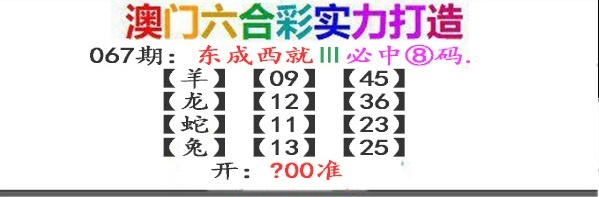
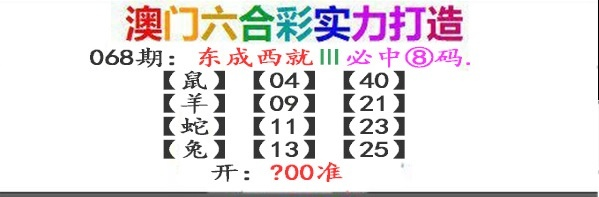
Update:  2023.03.09 14:26:23

diff --git a/Script/Js/lczjx.js b/Script/Js/lczjx.js
@@ -21,14 +21,14 @@ document.writeln("<tr>");
 document.writeln("<td style=box-sizing:border-box bgcolor=#ffffff height=40 bordercolor=\'#C0C0C0\'>");
 document.writeln("<p style=box-sizing:border-box;padding:0;margin:0 align=left>");
 document.writeln("<font face=\'微软雅黑\'><b><span style=\'box-sizing:border-box; \'><font color=\'#000000\'>");
-document.writeln("067期澳门马会传真四字：</font><font size=\'5\' color=\'#008000\'>【吹吹拍拍】</font></span><span style=\'box-sizing:border-box; font-size:14pt\'><font color=\'#FF0000\'><br></font>");
+document.writeln("068期澳门马会传真四字：</font><font size=\'5\' color=\'#008000\'>【凹凸不平】</font></span><span style=\'box-sizing:border-box; font-size:14pt\'><font color=\'#FF0000\'><br></font>");
 document.writeln("</span>");
 document.writeln("<span style=\'box-sizing:border-box; \'><font color=\'#FF0000\'>");
-document.writeln("四字妙解：吹吹拍拍.重叠字解双数狗猴鼠虎龙马</font></span><span style=\'box-sizing:border-box; font-size:14pt\'><br><br>");
+document.writeln("四字妙解：形容平面上有凸出和凹进的地方，形容平面上有凸出和凹进的地方。解地肖蛇虎羊鸡狗鼠</font></span><span style=\'box-sizing:border-box; font-size:14pt\'><br><br>");
 document.writeln("</span>");
 document.writeln("<span style=\'box-sizing:border-box; \'>");
-document.writeln("<font color=\'#008000\'>综合取肖：狗猴鼠虎龙马<br>");
-document.writeln("综合取码：06.18.08.20.04.16.02.14.12.24.10.22</font></span></b></font></tr>");
+document.writeln("<font color=\'#008000\'>综合取肖：蛇虎羊鸡狗鼠<br>");
+document.writeln("综合取码：35.47.26.38.31.43.30.42.28.40.33.45</font></span></b></font></tr>");
 document.writeln("<tr>");
 document.writeln("<td style=box-sizing:border-box bgcolor=#FFFF00 height=40>");
 document.writeln("<p style=box-sizing:border-box;padding:0;margin:0 align=center>");
@@ -38,6 +38,31 @@ document.writeln("<img src=\'https://67292c.com/images/yyy123.gif\' style=\'widt
 document.writeln("</span></font></font>");
 document.writeln("</tr>");
 document.writeln("<!--网址结束-->");
+document.writeln("");
+document.writeln("");
+document.writeln("<!--网址开始-->");
+document.writeln("<tr>");
+document.writeln("<td style=box-sizing:border-box bgcolor=#ffffff height=40 bordercolor=\'#C0C0C0\'>");
+document.writeln("<p style=box-sizing:border-box;padding:0;margin:0 align=left>");
+document.writeln("<font face=\'微软雅黑\'><b><span style=\'box-sizing:border-box; \'><font color=\'#000000\'>");
+document.writeln("067期澳门马会传真四字：</font><font size=\'5\' color=\'#008000\'>【吹吹拍拍】</font></span><span style=\'box-sizing:border-box; font-size:14pt\'><font color=\'#FF0000\'><br></font>");
+document.writeln("</span>");
+document.writeln("<span style=\'box-sizing:border-box; \'><font color=\'#FF0000\'>");
+document.writeln("四字妙解：吹吹拍拍.重叠字解双数狗猴鼠虎龙马</font></span><span style=\'box-sizing:border-box; font-size:14pt\'><br><br>");
+document.writeln("</span>");
+document.writeln("<span style=\'box-sizing:border-box; \'>");
+document.writeln("<font color=\'#008000\'>综合取肖：狗<span style=\'background-color: #FF0000\'>猴</span>鼠虎龙马<br>");
+document.writeln("综合取码：06.18.<span style=\'background-color: #FF0000\'>08</span>.20.04.16.02.14.12.24.10.22</font></span></b></font></tr>");
+document.writeln("<tr>");
+document.writeln("<td style=box-sizing:border-box bgcolor=#FFFF00 height=40>");
+document.writeln("<p style=box-sizing:border-box;padding:0;margin:0 align=center>");
+document.writeln("<font face=\'微软雅黑\'>");
+document.writeln("<b><span style=box-sizing:border-box;font-size:14pt>");
+document.writeln("<img src=\'https://67292c.com/images/yyy123.gif\' style=\'width:20px\' height=\'19\'><span style=box-sizing:border-box;><font color=\'#000000\'>澳门马会传真<font color=\'#FF0000\'>67292.com</font></font></span></span></b><span style=box-sizing:border-box;font-size:14pt><font color=\'#000000\'><span style=\'font-size: 14pt\'></strong>");
+document.writeln("</span></font></font>");
+document.writeln("</tr>");
+document.writeln("<!--网址结束-->");
+document.writeln("");
 document.writeln("");
 document.writeln("");
 document.writeln("");
@@ -128,14 +153,14 @@ document.writeln("<tr>");
 document.writeln("<td style=box-sizing:border-box bgcolor=#ffffff height=40 bordercolor=\'#C0C0C0\'>");
 document.writeln("<p style=box-sizing:border-box;padding:0;margin:0 align=left>");
 document.writeln("<font face=\'微软雅黑\'><b><span style=\'box-sizing:border-box; \'><font color=\'#000000\'>");
-document.writeln("067跑狗一语中特：</font><font size=\'5\' color=\'#FF0000\'>【一步三摇】</font></span><span style=\'box-sizing:border-box; font-size:14pt\'><font color=\'#FF0000\'><br></font>");
+document.writeln("068跑狗一语中特：</font><font size=\'5\' color=\'#FF0000\'>【倔头倔脑】</font></span><span style=\'box-sizing:border-box; font-size:14pt\'><font color=\'#FF0000\'><br></font>");
 document.writeln("</span>");
 document.writeln("<font color=\'#0000FF\'>");
 document.writeln("<span style=\'box-sizing:border-box; \'>");
-document.writeln("解释：  指人走路摇晃或者悠闲自得的样子。解小肖鼠猴鸡兔龙蛇<br></span><span style=\'box-sizing:border-box; \'>");
+document.writeln("解释：  形容说话、行动生硬的样子解后肖马羊猴鸡狗猪<br></span><span style=\'box-sizing:border-box; \'>");
 document.writeln("");
 document.writeln("<br>");
-document.writeln("<font color=\'#FF00FF\' size=\'4\'>特肖：鼠猴鸡兔龙蛇</font></span></font></b></tr>");
+document.writeln("<font color=\'#FF00FF\' size=\'4\'>特肖：马羊猴鸡狗猪</font></span></font></b></tr>");
 document.writeln("<tr>");
 document.writeln("<td style=box-sizing:border-box bgcolor=#FFFF00 height=40>");
 document.writeln("<p style=box-sizing:border-box;padding:0;margin:0 align=center>");
@@ -145,6 +170,30 @@ document.writeln("<img src=\'https://67292c.com/images/yyy123.gif\' style=\'widt
 document.writeln("</span></font></font>");
 document.writeln("</tr>");
 document.writeln("<!--网址结束-->");
+document.writeln("");
+document.writeln("<!--网址开始-->");
+document.writeln("<tr>");
+document.writeln("<td style=box-sizing:border-box bgcolor=#ffffff height=40 bordercolor=\'#C0C0C0\'>");
+document.writeln("<p style=box-sizing:border-box;padding:0;margin:0 align=left>");
+document.writeln("<font face=\'微软雅黑\'><b><span style=\'box-sizing:border-box; \'><font color=\'#000000\'>");
+document.writeln("067跑狗一语中特：</font><font size=\'5\' color=\'#FF0000\'>【一步三摇】</font></span><span style=\'box-sizing:border-box; font-size:14pt\'><font color=\'#FF0000\'><br></font>");
+document.writeln("</span>");
+document.writeln("<font color=\'#0000FF\'>");
+document.writeln("<span style=\'box-sizing:border-box; \'>");
+document.writeln("解释：  指人走路摇晃或者悠闲自得的样子。解小肖鼠猴鸡兔龙蛇<br></span><span style=\'box-sizing:border-box; \'>");
+document.writeln("");
+document.writeln("<br>");
+document.writeln("<font color=\'#FF00FF\' size=\'4\'>特肖：鼠<span style=\'background-color: #00FF00\'>猴</span>鸡兔龙蛇</font></span></font></b></tr>");
+document.writeln("<tr>");
+document.writeln("<td style=box-sizing:border-box bgcolor=#FFFF00 height=40>");
+document.writeln("<p style=box-sizing:border-box;padding:0;margin:0 align=center>");
+document.writeln("<font face=\'微软雅黑\'>");
+document.writeln("<b><span style=box-sizing:border-box;font-size:14pt>");
+document.writeln("<img src=\'https://67292c.com/images/yyy123.gif\' style=\'width:20px\' height=\'19\'><span style=box-sizing:border-box;><font color=\'#000000\'>澳门马会传真<font color=\'#FF0000\'>67292.com</font></font></span></span></b><span style=box-sizing:border-box;font-size:14pt><font color=\'#000000\'><span style=\'font-size: 14pt\'></strong>");
+document.writeln("</span></font></font>");
+document.writeln("</tr>");
+document.writeln("<!--网址结束-->");
+document.writeln("");
 document.writeln("");
 document.writeln("");
 document.writeln("<!--网址开始-->");

diff --git a/Script/Js/czjx.js b/Script/Js/czjx.js
@@ -21,16 +21,16 @@ document.writeln("<tr>");
 document.writeln("<td style=box-sizing:border-box bgcolor=#ffffff height=40 bordercolor=\'#C0C0C0\'>");
 document.writeln("<p style=box-sizing:border-box;padding:0;margin:0 align=left>");
 document.writeln("<font face=\'微软雅黑\'><b><span style=\'box-sizing:border-box; \'><font color=\'#0000FF\' size=\'4\'>");
-document.writeln("067期澳门马会传真：</font><font color=\'#000000\' size=\'4\'>今期生肖五七开，土里藏金生翠玉。画蛇添足反类犬，红波有望出旺码。大海水下有特码，看好特码好下注。小赌怡情最理想，不中下期有机会。</font><font color=\'#0000FF\' size=\'4\'><br></font>");
+document.writeln("068期澳门马会传真：</font><font color=\'#000000\' size=\'4\'>今期绿波行大运，三元七运旺中原。蓝天碧海二片晴，水深火势受煎熬。无钱莫买牛羊马，君能守得阳和日，虎鸡今期是特肖，群雄一起称独霸。</font><font color=\'#0000FF\' size=\'4\'><br></font>");
 document.writeln("<font color=\'#008000\' size=\'4\'>");
-document.writeln("解释：今期生肖五七开.05猪.07鸡。红波有望出旺码.红波中特。大海水下有特码.大肖牛虎马羊狗猪。小赌怡情最理想.兔龙。<br>");
+document.writeln("解释：今期绿波行大运.绿波。蓝天碧海二片晴.天肖牛猴兔猪马龙。无钱莫买牛羊马.虎鸡今期是特肖.明肖虎鸡牛马羊。<br>");
 document.writeln("</font>");
 document.writeln("</span>");
 document.writeln("<font color=\'#008000\' size=\'4\'>");
 document.writeln("<font color=\'#FF00FF\' size=\'4\'><span style=\'box-sizing:border-box; \'>");
-document.writeln("综合特肖：虎兔猪狗龙鼠鸡羊牛<br>综合六肖：虎兔猪狗龙鼠<br>综合三肖：虎兔猪<br>");
-document.writeln("综合一肖：虎<br>");
-document.writeln("综合特码：26.38.37.49.29.41.30.42.28.40.31.43.33.45</span></font></font></b></font></tr>");
+document.writeln("综合特肖：羊马牛蛇龙兔猪虎鸡<br>综合六肖：羊马牛蛇龙兔<br>综合三肖：羊马牛<br>");
+document.writeln("综合一肖：羊<br>");
+document.writeln("综合特码：21.33.22.34.15.27.24.36.25.37.17.29.14.26</span></font></font></b></font></tr>");
 document.writeln("");
 document.writeln("<!--网址开始-->");
 document.writeln("<!--网址开始-->");
@@ -103,4 +103,50 @@ document.writeln("<tr>");
 document.writeln("<td style=box-sizing:border-box bgcolor=#FFFF00 height=40>");
 document.writeln("<p style=box-sizing:border-box;padding:0;margin:0 align=left>");
 document.writeln("<font face=\'微软雅黑\'>");
-document.writeln("<b><span style=box-sizing:border-box;font-size:14pt>");
+document.writeln("<b><span style=box-sizing:border-box;font-size:14pt>");
+document.writeln("<img src=\'https://67292c.com/images/yyy123.gif\' style=\'width:21px; height:19px\'><span style=box-sizing:border-box;><font color=\'#000000\'>澳门马会传真</font><font color=\'#FF00FF\'>67</font><font color=\'#000000\'>29</font><font size=\'4\' color=\'#008000\'>2</font><font size=\'4\' color=\'#FF0000\'>.com</font></span><font color=\'#000000\'>一定谨记!</font></span></b><span style=box-sizing:border-box;font-size:14pt><font color=\'#000000\'><span style=\'font-size: 14pt\'></strong>");
+document.writeln("</span></font></font>");
+document.writeln("</tr>");
+document.writeln("<!--网址结束-->");
+document.writeln("");
+document.writeln("");
+document.writeln("");
+document.writeln("<!--网址开始-->");
+document.writeln("<tr>");
+document.writeln("<td style=box-sizing:border-box bgcolor=#ffffff height=40 bordercolor=\'#C0C0C0\'>");
+document.writeln("<p style=box-sizing:border-box;padding:0;margin:0 align=left>");
+document.writeln("<font face=\'微软雅黑\'><b><span style=\'box-sizing:border-box; \'><font color=\'#0000FF\' size=\'4\'>");
+document.writeln("064期澳门马会传真：</font><font color=\'#000000\' size=\'4\'>今期生肖定龙羊，子午相冲三合出。特码猜出是美人，蓝红开出生肖东。二五二七发大财，今期五数把三连，一轮红日找天边，好事成双六出名。</font><font color=\'#0000FF\' size=\'4\'><br></font>");
+document.writeln("<font color=\'#008000\' size=\'4\'>");
+document.writeln("解释：今期生肖定龙羊.诗句直接明肖龙羊。特码猜出是美人.女肖鸡兔羊蛇猪。蓝红开出生肖东.蓝红波。一轮红日找天边.虎龙马鼠猴狗。<br>");
+document.writeln("</font>");
+document.writeln("</span>");
+document.writeln("<font color=\'#008000\' size=\'4\'>");
+document.writeln("<font color=\'#FF00FF\' size=\'4\'><span style=\'box-sizing:border-box; \'>");
+document.writeln("综合特肖：兔羊狗猴虎龙<span style=\'background-color: #000000\'>马</span>鼠猪<br>综合六肖：兔羊狗猴虎龙<br>综合三肖：兔羊狗<br>");
+document.writeln("综合一肖：兔<br>");
+document.writeln("综合特码：37.49.33.45.30.42.32.44.26.38.36.48.34.<span style=\'background-color: #000000\'>46</span></span></font></font></b></font></tr>");
+document.writeln("");
+document.writeln("<!--网址开始-->");
+document.writeln("<!--网址开始-->");
+document.writeln("");
+document.writeln("<tr>");
+document.writeln("<td style=box-sizing:border-box bgcolor=#FFFF00 height=40>");
+document.writeln("<p style=box-sizing:border-box;padding:0;margin:0 align=left>");
+document.writeln("<font face=\'微软雅黑\'>");
+document.writeln("<b><span style=box-sizing:border-box;font-size:14pt>");
+document.writeln("<img src=\'https://67292c.com/images/yyy123.gif\' style=\'width:21px; height:19px\'><span style=box-sizing:border-box;><font color=\'#000000\'>澳门马会传真</font><font color=\'#FF00FF\'>67</font><font color=\'#000000\'>29</font><font size=\'4\' color=\'#008000\'>2</font><font size=\'4\' color=\'#FF0000\'>.com</font></span><font color=\'#000000\'>一定谨记!</font></span></b><span style=box-sizing:border-box;font-size:14pt><font color=\'#000000\'><span style=\'font-size: 14pt\'></strong>");
+document.writeln("</span></font></font>");
+document.writeln("</tr>");
+document.writeln("<!--网址结束-->");
+document.writeln("");
+document.writeln("");
+document.writeln("");
+document.writeln("");
+document.writeln("");
+document.writeln("</tbody>");
+document.writeln("</table>");
+document.writeln("</body>");
+document.writeln("");
+document.writeln("");
+document.writeln("</html>");
